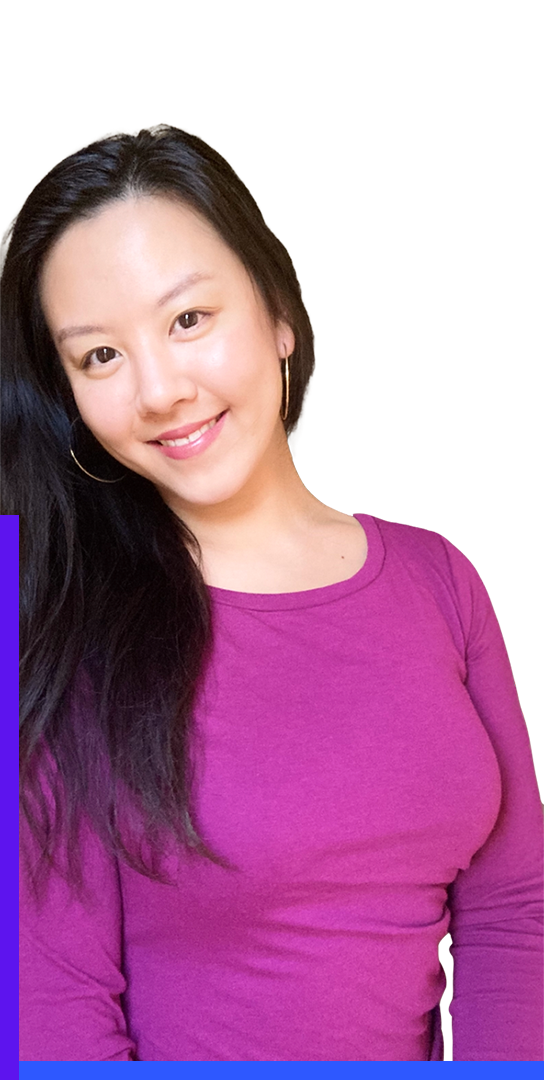
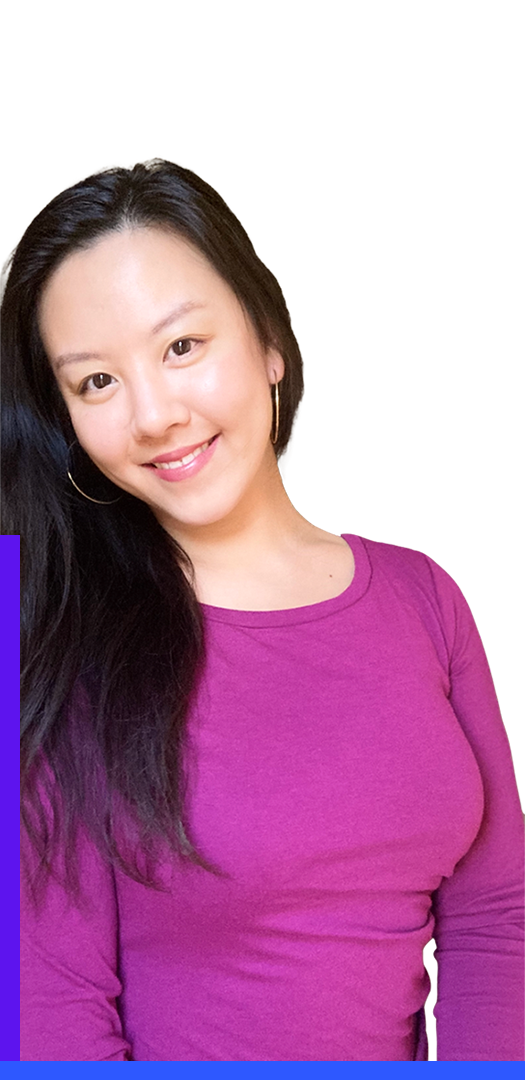
photos

diff --git a/unplanned_lessons/index.html b/unplanned_lessons/index.html
@@ -48,7 +48,7 @@
   <div class="container">
     <p class="dek">New technology. Grieving students. Mass absenteeism.</p>
 
-    <p class="intro1">Whether teachers faced a sea of black Zoom boxes, juggled simultaneous instruction for at-home and in-person learners, or taught full classrooms while worrying about COVID-19 spread, last school year was unlike any before it. But challenges weren’t all that was in store. Amid the uncertainty, the stress and the struggles, many educators gained new insights on themselves, their students and their practice. Here, five teachers across the U.S. share the unplanned lessons they learned in 2020-21 and what they’ll take with them after the pandemic.</p>
+    <p class="intro1">Whether teaching virtually, hybrid or in-person, the COVID-19 pandemic and political upheaval in the United States made the last school year unlike any before it. But challenges weren’t all that was in store. Amid the uncertainty and the stress, many educators gained new insights on themselves, their students and their practice. Here, five teachers across the U.S. share the unplanned lessons they learned in 2020-21 and what they’ll take with them after the pandemic.</p>
 
   </div>
 <!-- Close container -->
@@ -160,7 +160,7 @@
     </div>
 
     <div class="col-md-4">
-      <img class="left" src="images/lauren_merkley.png">
+      <img class="right" src="images/lauren_merkley.png">
     </div>
 
     <div class="col-md-2"></div>
